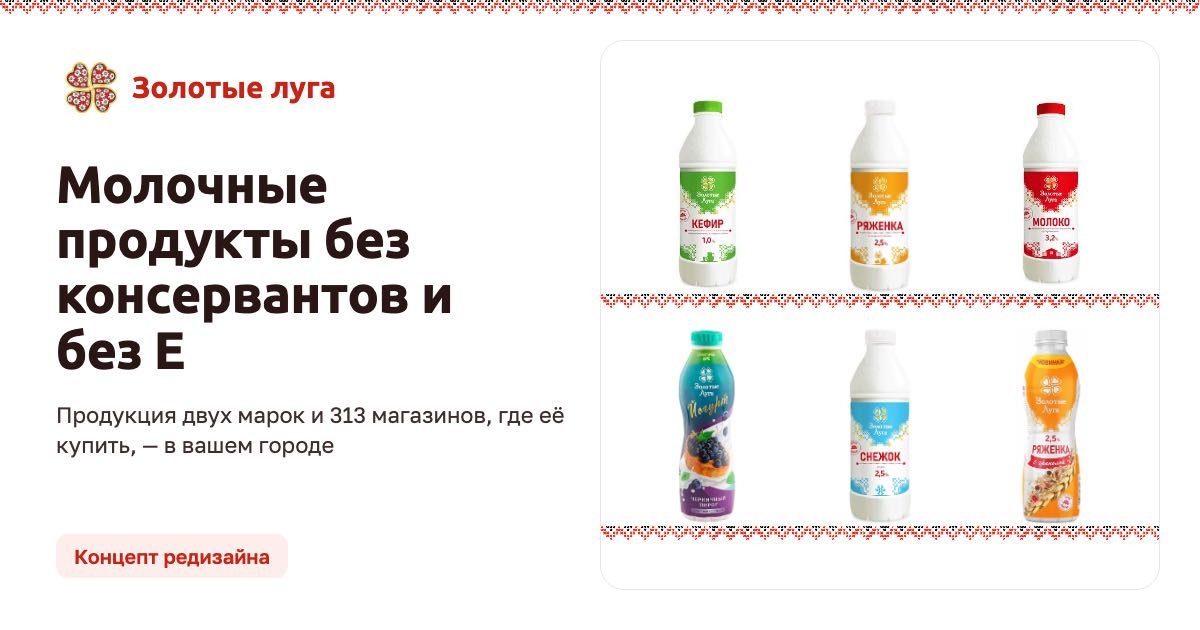
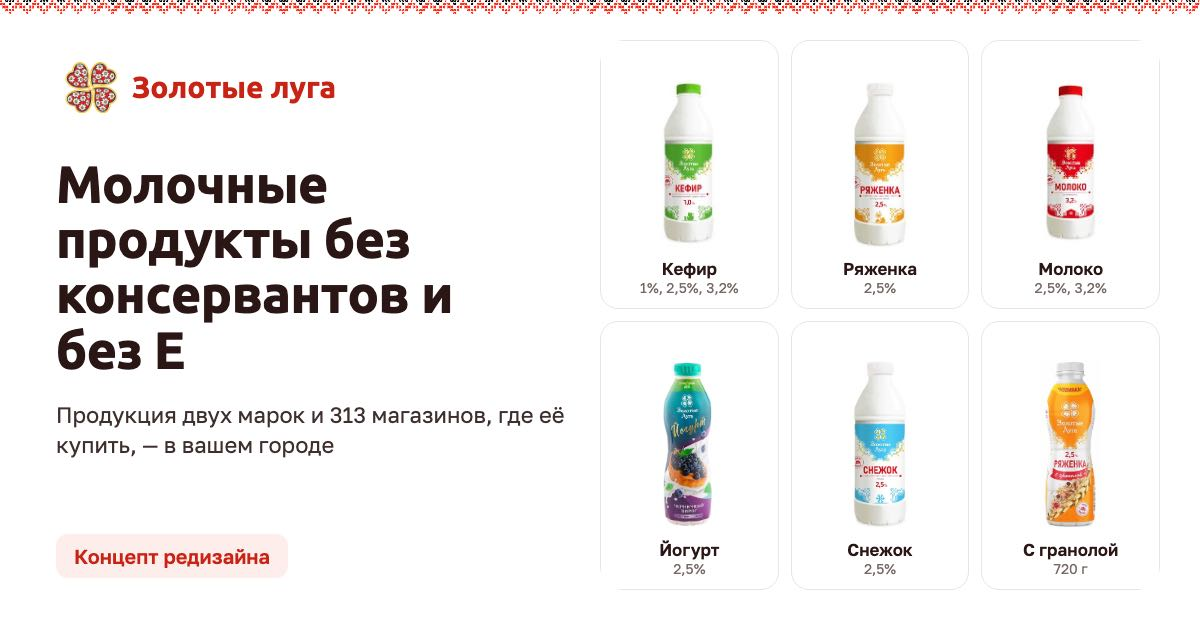
fix(redesign): zolotieluga hero showcase as uniform tiles

Changed region(s): [[0.4933, 0.1206, 0.9867, 0.9349]]

diff --git a/pages/redesign/zolotieluga/index.vue b/pages/redesign/zolotieluga/index.vue
@@ -6,12 +6,9 @@ import type { ZlBrand } from '~/utils/zolotieluga'
 
 const ui = useZolotielugaUi()
 
-// Стеллаж первого экрана: шесть бутылок «Золотых лугов» одной высоты, две полки по три, под каждой — «ценник»
-// с названием и жирностью (цен у оригинала нет). Снимки бутылок — плотная обрезка без полей, поэтому одна высота = ровный ряд.
-const rack = [
-  ['43', '60', '11'],
-  ['1064', '61', '1220'],
-].map((row) => row.map((id) => zlProduct(id)!))
+// Витрина первого экрана: шесть бутылок «Золотых лугов» одной высоты в одинаковых плитках, под бутылкой — название
+// и жирность (цен у оригинала нет). Снимки бутылок — плотная обрезка без полей, поэтому одна высота = ровный ряд.
+const rack = ['43', '60', '11', '1064', '61', '1220'].map((id) => zlProduct(id)!)
 const rackTag: Record<string, string> = { '11': 'Молоко', '1064': 'Йогурт', '1220': 'С гранолой' }
 
 const cityCount = computed(() => zlStoreCount(ui.city.value))
@@ -61,19 +58,12 @@ const vacCities = zlVacancyIntro.cities.map((c) => ({ c, n: zlVacancies.filter((
         </ul>
       </div>
       <div class="zl-hero__shelf">
-        <div v-for="(row, r) in rack" :key="r" class="zl-rack">
-          <div class="zl-rack__row">
-            <NuxtLink v-for="p in row" :key="p.id" :to="zlProductPath(p.id)" class="zl-rack__item">
-              <img :src="zlImg(p.imgs[0])" :alt="'Золотые луга, ' + p.name" width="150" height="420" />
-            </NuxtLink>
-          </div>
-          <div class="zl-stitch zl-rack__edge" aria-hidden="true" />
-          <div class="zl-rack__row">
-            <NuxtLink v-for="p in row" :key="p.id" :to="zlProductPath(p.id)" class="zl-rack__tag">
-              <b>{{ rackTag[p.id] || p.name }}</b>
-              <small>{{ p.fats.length ? p.fats.join(', ') : '720 г' }}</small>
-            </NuxtLink>
-          </div>
+        <div class="zl-rack">
+          <NuxtLink v-for="p in rack" :key="p.id" :to="zlProductPath(p.id)" class="zl-rack__item">
+            <span class="zl-rack__img"><img :src="zlImg(p.imgs[0])" :alt="'Золотые луга, ' + p.name" width="150" height="420" /></span>
+            <b>{{ rackTag[p.id] || p.name }}</b>
+            <small>{{ p.fats.length ? p.fats.join(', ') : '720 г' }}</small>
+          </NuxtLink>
         </div>
         <NuxtLink :to="zlPath('/products')" class="zl-rack__all">Вся продукция — {{ zlProducts.length }} <ZlIcon name="arrow" :size="18" /></NuxtLink>
       </div>
@@ -290,12 +280,7 @@ const vacCities = zlVacancyIntro.cities.map((c) => ({ c, n: zlVacancies.filter((
     display: flex;
     flex-direction: column;
     justify-content: center;
-    gap: 22px;
-    padding: 32px 28px 28px;
-    border-radius: 24px;
-    border: 1px solid var(--zl-line);
-    background: #fff;
-    overflow: hidden;
+    gap: 16px;
   }
 }
 .zl-finder {
@@ -351,13 +336,44 @@ const vacCities = zlVacancyIntro.cities.map((c) => ({ c, n: zlVacancies.filter((
 }
 
 .zl-rack {
-  --zl-bottle: clamp(150px, 15vw, 214px);
-  &__row {
-    display: grid;
-    grid-template-columns: repeat(3, minmax(0, 1fr));
-    gap: 12px;
-  }
+  --zl-bottle: clamp(150px, 13.5vw, 200px);
+  display: grid;
+  grid-template-columns: repeat(3, minmax(0, 1fr));
+  gap: 12px;
   &__item {
+    display: flex;
+    flex-direction: column;
+    align-items: center;
+    gap: 2px;
+    min-width: 0;
+    padding: 18px 10px 14px;
+    border-radius: var(--zl-R);
+    border: 1px solid var(--zl-line);
+    background: #fff;
+    text-align: center;
+    transition: border-color 0.2s;
+    b {
+      margin-top: 12px;
+      font-weight: 600;
+      font-size: 15px;
+      line-height: 1.25;
+      color: var(--zl-ink);
+    }
+    small {
+      font-size: 13px;
+      color: var(--zl-muted);
+    }
+    &:hover {
+      border-color: #e8bbb5;
+      b {
+        color: var(--zl-accent);
+      }
+      img {
+        transform: scale(1.04);
+      }
+    }
+  }
+  &__img {
     display: flex;
     justify-content: center;
     align-items: flex-end;
@@ -370,41 +386,6 @@ const vacCities = zlVacancyIntro.cities.map((c) => ({ c, n: zlVacancies.filter((
       transition: transform 0.25s;
       transform-origin: 50% 100%;
     }
-    &:hover img {
-      transform: scale(1.04);
-    }
-  }
-  &__edge {
-    margin: 0 -28px 10px;
-    height: 12px;
-  }
-  &__tag {
-    display: flex;
-    flex-direction: column;
-    align-items: center;
-    gap: 2px;
-    padding: 7px 8px;
-    border-radius: 10px;
-    background: var(--zl-surface);
-    text-align: center;
-    min-width: 0;
-    transition: background 0.2s;
-    b {
-      font-weight: 600;
-      font-size: 14px;
-      line-height: 1.25;
-      color: var(--zl-ink);
-    }
-    small {
-      font-size: 12px;
-      color: var(--zl-muted);
-    }
-    &:hover {
-      background: var(--zl-soft);
-      b {
-        color: var(--zl-accent);
-      }
-    }
   }
   &__all {
     display: inline-flex;
@@ -415,41 +396,43 @@ const vacCities = zlVacancyIntro.cities.map((c) => ({ c, n: zlVacancies.filter((
     color: var(--zl-accent);
   }
 }
+.zl-hero__shelf > .zl-rack__all {
+  margin-left: 4px;
+}
 @media (max-width: 1199px) {
   .zl-rack {
-    --zl-bottle: 170px;
+    --zl-bottle: 160px;
   }
 }
 @media (max-width: 989px) {
   .zl-rack {
-    --zl-bottle: 210px;
+    --zl-bottle: 200px;
   }
 }
 @media (max-width: 768px) {
   .zl-rack {
-    --zl-bottle: 160px;
-    &__edge {
-      margin: 0 -16px 8px;
-    }
+    --zl-bottle: 150px;
   }
 }
 @media (max-width: 576px) {
   .zl-rack {
-    --zl-bottle: 132px;
-    &__row {
-      gap: 8px;
-    }
-    &__tag {
-      padding: 6px 4px;
+    --zl-bottle: 120px;
+    gap: 8px;
+    &__item {
+      padding: 12px 4px 10px;
       b {
-        font-size: 13px;
+        margin-top: 8px;
+        font-size: 14px;
+      }
+      small {
+        font-size: 12px;
       }
     }
   }
 }
 @media (max-width: 375px) {
   .zl-rack {
-    --zl-bottle: 112px;
+    --zl-bottle: 100px;
   }
 }
 
@@ -697,8 +680,7 @@ const vacCities = zlVacancyIntro.cities.map((c) => ({ c, n: zlVacancies.filter((
     }
     &__shelf {
       order: 4;
-      padding: 20px 16px 18px;
-      gap: 16px;
+      gap: 12px;
     }
     .zl-finder {
       order: 5;
